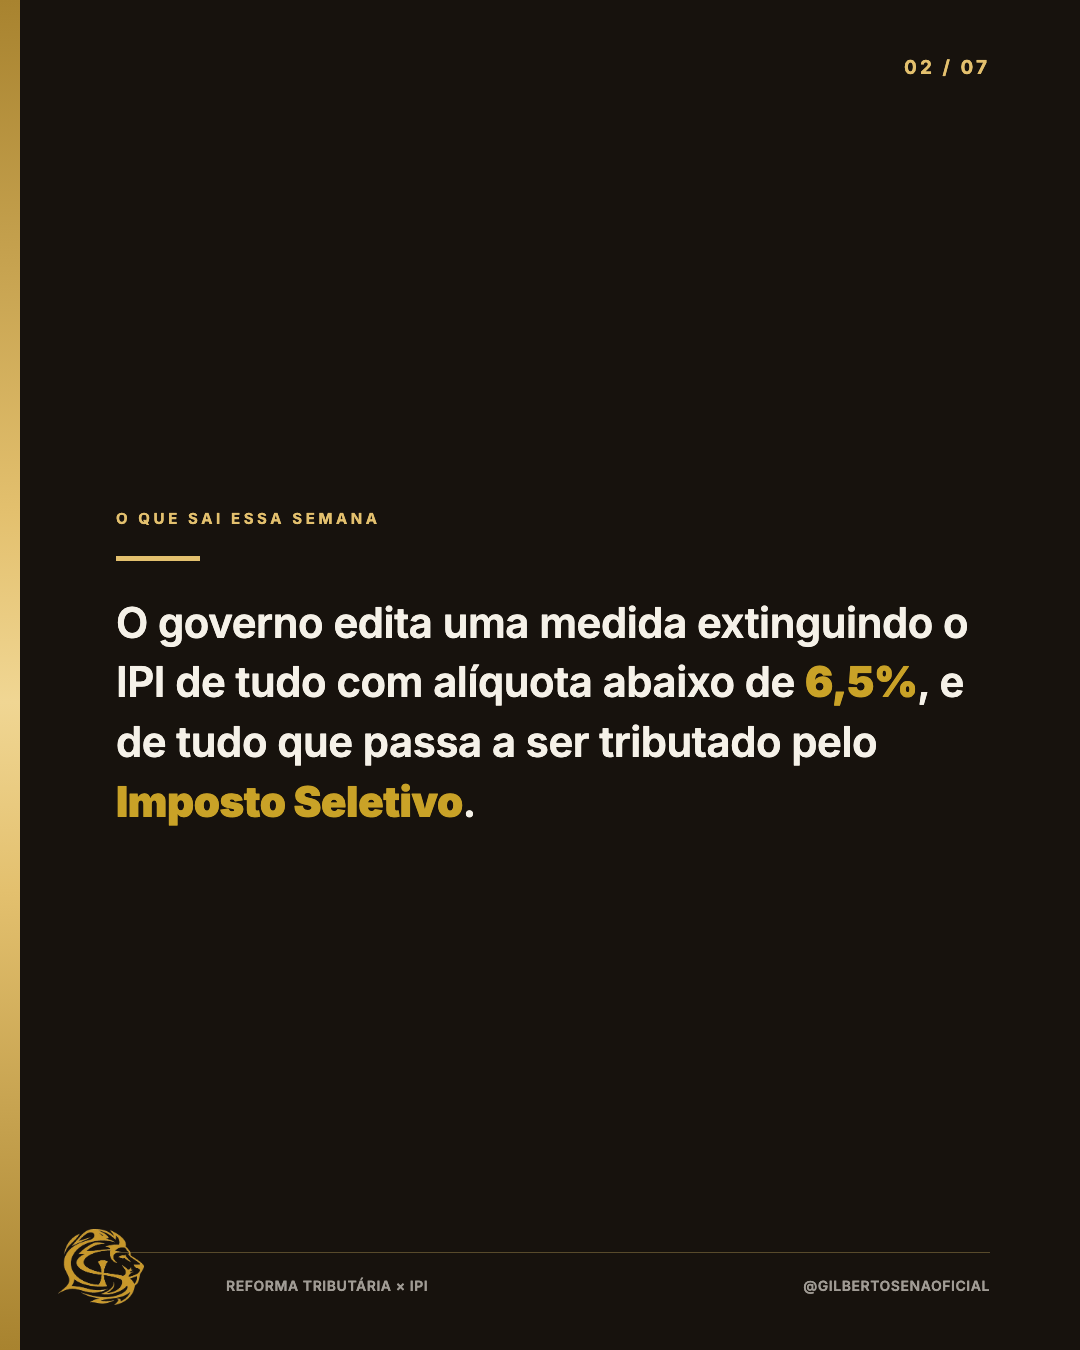
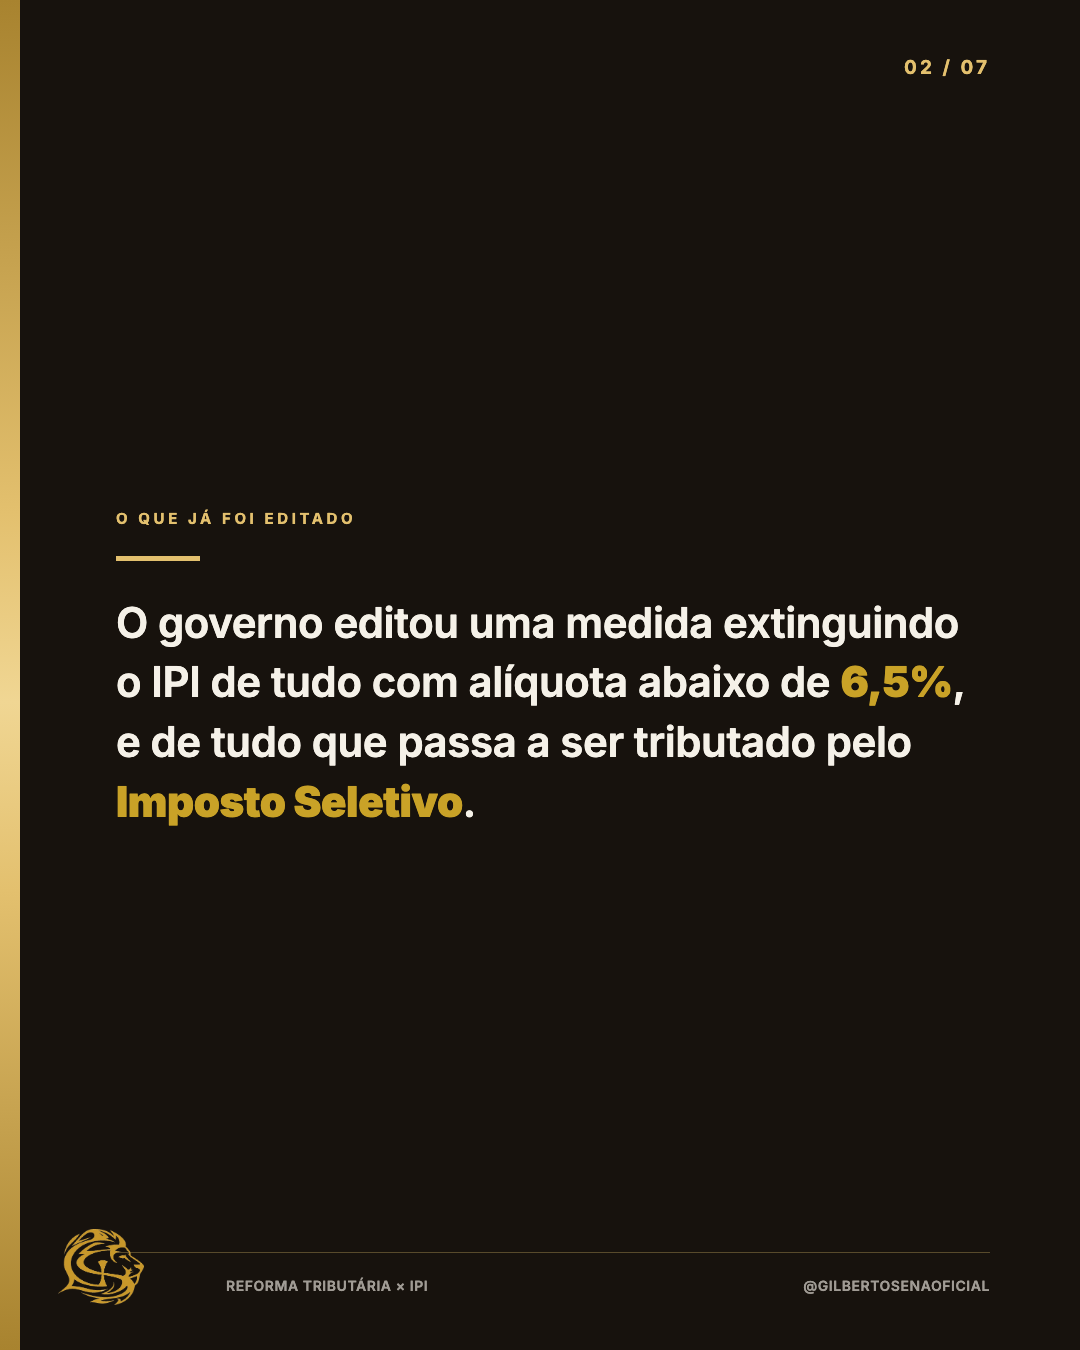
Dia 19 na fila, com as datas relativas do IPI corrigidas

Changed region(s): [[0.0917, 0.4356, 0.8861, 0.56], [0.1833, 0.3733, 0.3361, 0.4044]]

diff --git a/saidas/CARROSSEIS/carrossel-ipi-imposto-seletivo-2026-08-27/carrossel.html b/saidas/CARROSSEIS/carrossel-ipi-imposto-seletivo-2026-08-27/carrossel.html
@@ -162,9 +162,9 @@
     <div class="brand"><img class="logo-icon" src="../../../identidade/logo-transparente-crop.png" alt="Grupo Sena"><span class="wordmark">GILBERTO SENA</span></div>
     <span class="counter">02 / 07</span>
   </div>
-  <div class="kicker">O QUE SAI ESSA SEMANA</div>
+  <div class="kicker">O QUE JÁ FOI EDITADO</div>
   <div class="rule"></div>
-  <div class="solo-body">O governo edita uma medida extinguindo o IPI de tudo com alíquota abaixo de <b>6,5%</b>, e de tudo que passa a ser tributado pelo <b>Imposto Seletivo</b>.</div>
+  <div class="solo-body">O governo editou uma medida extinguindo o IPI de tudo com alíquota abaixo de <b>6,5%</b>, e de tudo que passa a ser tributado pelo <b>Imposto Seletivo</b>.</div>
   <div class="footer"><span>REFORMA TRIBUTÁRIA × IPI</span><span>@GILBERTOSENAOFICIAL</span></div>
 </div>
 
@@ -203,15 +203,15 @@
   <div class="duo-title">Duas medidas, uma semana de diferença</div>
   <div class="duo-cols">
     <div class="duo-col">
-      <div class="duo-num">ESSA SEMANA</div>
+      <div class="duo-num">A PRIMEIRA</div>
       <div class="duo-h">Extinção do IPI</div>
-      <div class="duo-text">Publicada agora, valendo a partir de 1º de janeiro de 2027.</div>
+      <div class="duo-text">Já publicada, valendo a partir de 1º de janeiro de 2027.</div>
     </div>
     <div class="duo-divider-v"></div>
     <div class="duo-col">
-      <div class="duo-num">SEMANA QUE VEM</div>
+      <div class="duo-num">A SEGUNDA</div>
       <div class="duo-h">Nasce o Imposto Seletivo</div>
-      <div class="duo-text">Nova MP estabelece o IS pros mesmos produtos.</div>
+      <div class="duo-text">Nova MP estabeleceu o IS pros mesmos produtos.</div>
     </div>
   </div>
   <div class="footer"><span>REFORMA TRIBUTÁRIA × IPI</span><span>@GILBERTOSENAOFICIAL</span></div>

diff --git a/saidas/CARROSSEIS/carrossel-ipi-imposto-seletivo-2026-08-27/legenda.md b/saidas/CARROSSEIS/carrossel-ipi-imposto-seletivo-2026-08-27/legenda.md
@@ -1,12 +1,14 @@
 O IPI está sendo extinto de verdade, mas antes de comemorar, entenda pra onde esse imposto está indo.
 
-Essa semana, o governo edita uma medida extinguindo o IPI de tudo com alíquota abaixo de 6,5%, e de tudo que passa a ser tributado pelo Imposto Seletivo: bebida alcoólica, cigarro, o que faz mal ao meio ambiente e à saúde, possivelmente carros.
+O governo editou uma medida extinguindo o IPI de tudo com alíquota abaixo de 6,5%, e de tudo que passa a ser tributado pelo Imposto Seletivo: bebida alcoólica, cigarro, o que faz mal ao meio ambiente e à saúde, possivelmente carros.
 
 O Imposto Seletivo entra no lugar do IPI. Exceção: produtos fabricados na Zona Franca de Manaus mantêm tratamento especial.
 
-O calendário: a extinção do IPI sai publicada essa semana, valendo a partir de 1º de janeiro de 2027. Semana que vem, nova medida provisória estabelece o Imposto Seletivo pros mesmos produtos.
+O calendário: a extinção do IPI já está publicada e vale a partir de 1º de janeiro de 2027. Uma segunda medida provisória, editada na semana seguinte, estabeleceu o Imposto Seletivo pros mesmos produtos.
 
-A lição: isso é substituição, não é alívio. O princípio é neutralidade. O que hoje paga IPI passa a pagar Imposto Seletivo. Ninguém ganha, ninguém perde. O IPI não acaba, ele se transforma.Me chama no direct.
+A lição: isso é substituição, não é alívio. O princípio é neutralidade. O que hoje paga IPI passa a pagar Imposto Seletivo. Ninguém ganha, ninguém perde. O IPI não acaba, ele se transforma.
+
+Me chama no direct.
 
 Gilberto Sena. Grupo Sena Soluções Empresariais.
 

diff --git a/saidas/CARROSSEIS/_PLANO-DA-FILA.md b/saidas/CARROSSEIS/_PLANO-DA-FILA.md
@@ -41,15 +41,22 @@ Completa o dia de seis: 5h Provérbios, 9h frase, 12h reels, 15h carrossel,
 | 16/10 | ✅ 7-mudancas-2027 | ✅ quem-e-gilberto |
 | 17/10 | ✅ simples-nacional-prazo | ✅ dre-7-passos |
 | 18/10 | ✅ revenda-carros-stj | ✅ ponto-de-equilibrio |
-| 19/10 em diante | ⏳ | ⏳ |
+| 19/10 | ✅ ipi-imposto-seletivo | ✅ 12-pilares-business-plan |
+| 20/10 em diante | ⏳ | ⏳ |
 
-**Próximo:** 19/10 às 15h, `carrossel-ipi-imposto-seletivo-2026-08-27`.
+**Próximo:** 20/10 às 15h, `carrossel-pf-autonomo-cbs-2026-08-27`.
 
 ⚠ **Troquei o Simples Híbrido do dia 18 com o Revenda de Carros do dia 23.**
 O Híbrido caía no dia seguinte ao Simples Nacional do dia 17, e os dois
 contam a mesma história (janela de setembro, 30 de novembro, março de 2027,
 fim do crédito presumido de 9,25%). Dois dias seguidos repetindo isso
 queima o assunto.
+
+⚠ **Peça de agosto pode ter data relativa.** O do IPI dizia "essa semana" e
+"semana que vem" em dois cards e na legenda. Em outubro isso vira informação
+errada. Troquei por "o que já foi editado", "a primeira" e "a segunda", e
+re-renderizei. **Rodar antes de cada peça:**
+`grep -niE "essa semana|semana que vem|hoje o governo" carrossel.html legenda.md`
 
 ⚠ **O nome dos arquivos muda de pasta pra pasta.** Uns usam
 `instagram/slide-01.png`, outros `instagram/card-01.png`. **Listar a pasta
